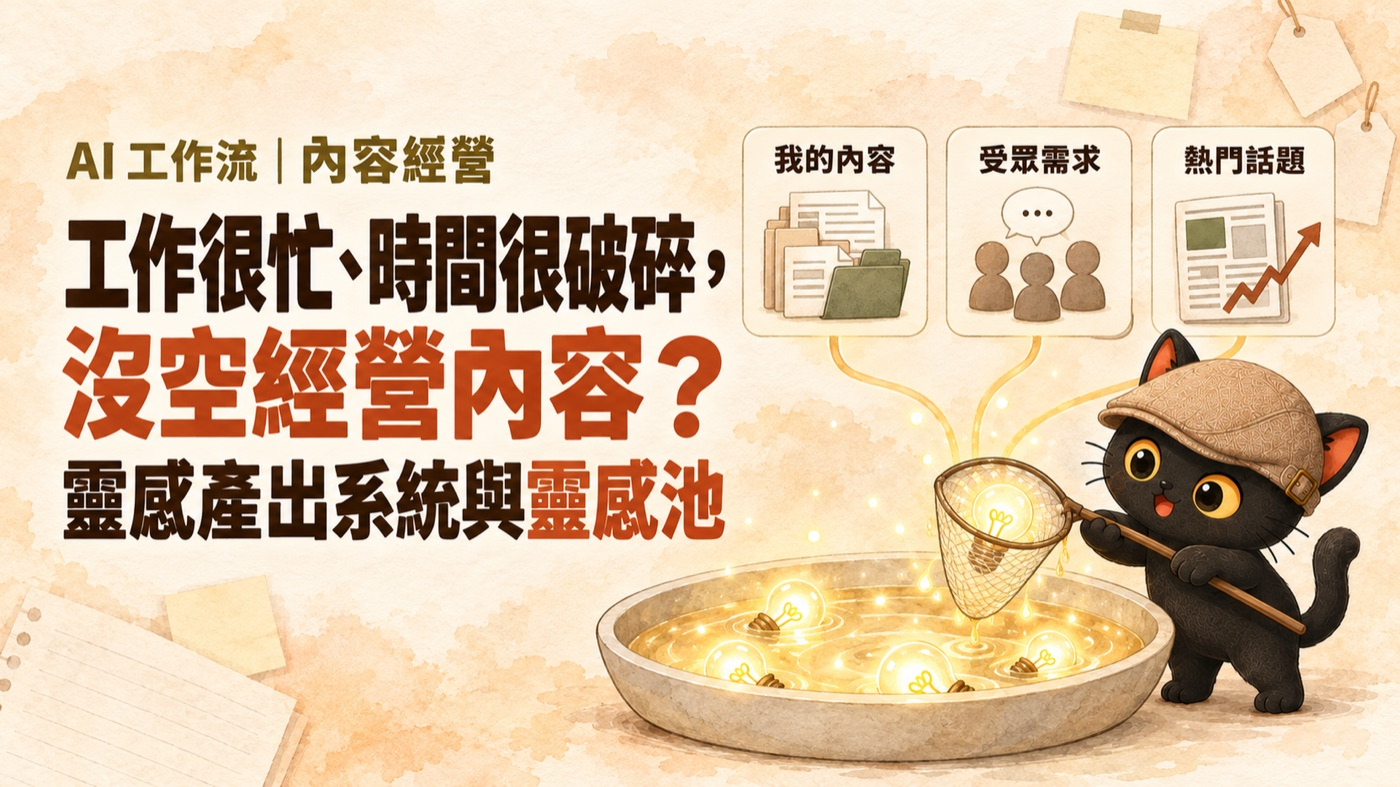
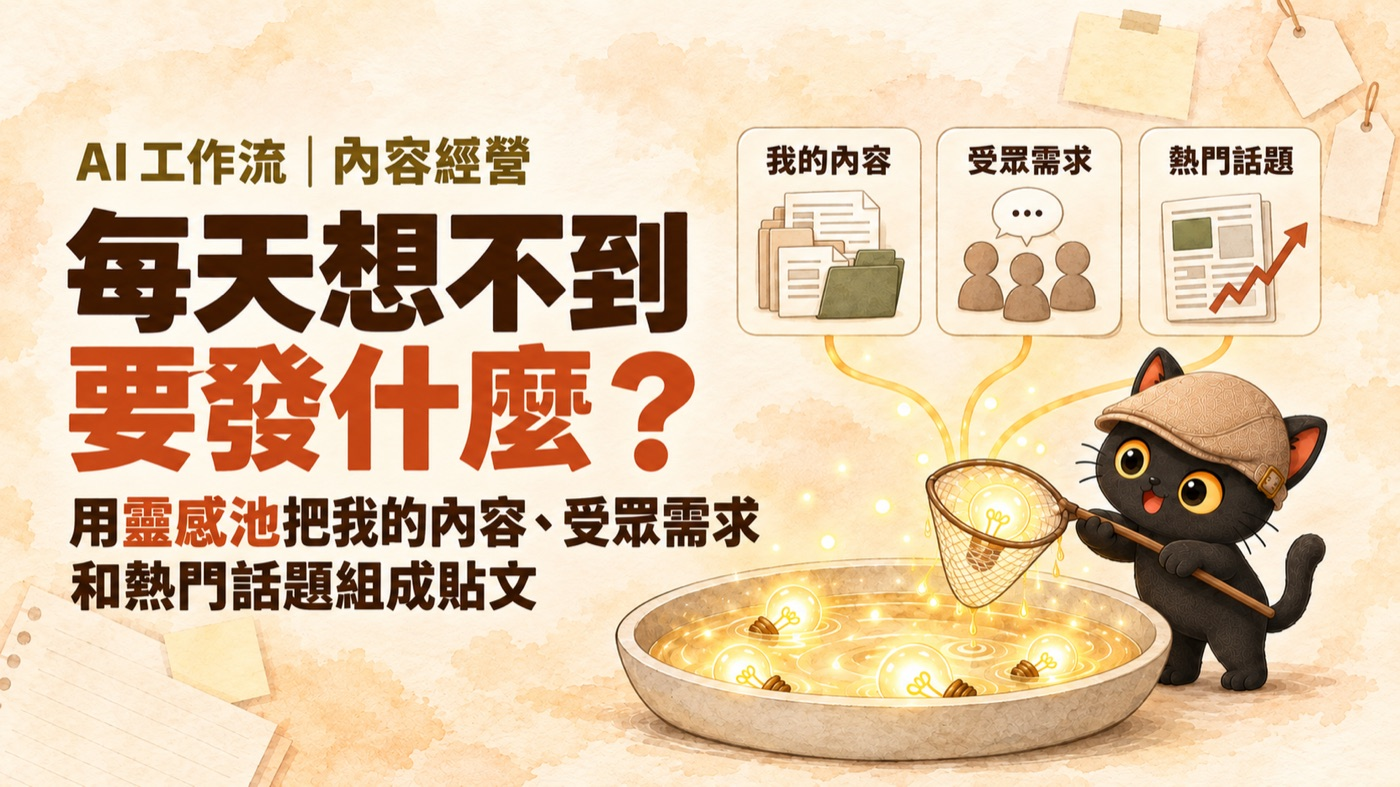
靈感池文章換新標題 B、封面第二版、長標題版面
- 主標改為「每天想不到要發什麼？｜用靈感池把我的內容、受眾需求和熱門話題組成貼文」（江江 10/24 選定，雙軌互審 Claude 案 B）
- 舊主標加進搜尋別名；article.json、llms.txt 同步
- 封面依新標題重生（v2），OG 重截；hero 文字與封面各 500px

diff --git a/articles/inspiration-production-system/index.html b/articles/inspiration-production-system/index.html
@@ -4,21 +4,21 @@
 <meta charset="utf-8">
 <meta name="viewport" content="width=device-width,initial-scale=1">
 <meta name="robots" content="index,follow">
-<title>工作很忙、時間很破碎，沒空經營內容？：靈感產出系統與靈感池</title>
+<title>每天想不到要發什麼？｜用靈感池把我的內容、受眾需求和熱門話題組成貼文</title>
 <meta name="description" content="靈感可以系統性產出。教你建立內容創作的靈感池：三個靈感來源（我過去累積的內容、受眾的需求、網路上的熱門話題）怎麼組合，加上標籤撈取系統，以及靈感池為什麼也是知識管理。江江教練整理兩場課的實作方法。">
 <link rel="canonical" href="https://jiangyude.com/articles/inspiration-production-system/">
 <meta property="og:type" content="article">
-<meta property="og:title" content="工作很忙、時間很破碎，沒空經營內容？：靈感產出系統與靈感池｜江江教練">
+<meta property="og:title" content="每天想不到要發什麼？｜用靈感池把我的內容、受眾需求和熱門話題組成貼文｜江江教練">
 <meta property="og:image" content="https://jiangyude.com/images/og/inspiration-production-system.jpg">
 <meta property="og:description" content="靈感可以系統性產出。三個靈感來源加上標籤撈取系統，讓有個人特色的發文變成一套會自己運轉的系統。">
 <meta property="og:url" content="https://jiangyude.com/articles/inspiration-production-system/">
 <meta property="og:locale" content="zh_TW">
 <meta property="og:site_name" content="江江教練 · AI 知識管理">
 <meta name="twitter:card" content="summary_large_image">
-<meta name="twitter:title" content="工作很忙、時間很破碎，沒空經營內容？：靈感產出系統與靈感池｜江江教練">
+<meta name="twitter:title" content="每天想不到要發什麼？｜用靈感池把我的內容、受眾需求和熱門話題組成貼文｜江江教練">
 <meta name="twitter:image" content="https://jiangyude.com/images/og/inspiration-production-system.jpg">
 <meta name="twitter:description" content="靈感可以系統性產出。三個靈感來源加上標籤撈取系統，讓有個人特色的發文變成一套會自己運轉的系統。">
-<script type="application/ld+json">{"@context":"https://schema.org","@type":"Article","headline":"工作很忙、時間很破碎，沒空經營內容？：靈感產出系統與靈感池","description":"靈感可以系統性產出。三個靈感來源加上標籤撈取系統，讓有個人特色的發文變成一套會自己運轉的系統。","author":{"@type":"Person","name":"江昱德","alternateName":"江江教練","jobTitle":"隱性知識提煉師、AI 應用規劃師"},"isPartOf":{"@type":"WebSite","name":"江江教練 · AI 知識管理","url":"https://jiangyude.com/"},"inLanguage":"zh-Hant","url":"https://jiangyude.com/articles/inspiration-production-system/","datePublished":"2026-07-13","dateModified":"2026-10-23","image":"https://jiangyude.com/images/og/inspiration-production-system.jpg"}</script>
+<script type="application/ld+json">{"@context":"https://schema.org","@type":"Article","headline":"每天想不到要發什麼？｜用靈感池把我的內容、受眾需求和熱門話題組成貼文","description":"靈感可以系統性產出。三個靈感來源加上標籤撈取系統，讓有個人特色的發文變成一套會自己運轉的系統。","author":{"@type":"Person","name":"江昱德","alternateName":"江江教練","jobTitle":"隱性知識提煉師、AI 應用規劃師"},"isPartOf":{"@type":"WebSite","name":"江江教練 · AI 知識管理","url":"https://jiangyude.com/"},"inLanguage":"zh-Hant","url":"https://jiangyude.com/articles/inspiration-production-system/","datePublished":"2026-07-13","dateModified":"2026-10-24","image":"https://jiangyude.com/images/og/inspiration-production-system.jpg"}</script>
 <link rel="preconnect" href="https://fonts.googleapis.com">
 <link rel="preconnect" href="https://fonts.gstatic.com" crossorigin>
 <link rel="stylesheet" href="https://fonts.googleapis.com/css2?family=Cormorant+Garamond:ital,wght@0,400;0,500;0,600;1,400;1,500&family=Caveat:wght@400;500;600;700&family=Noto+Sans+TC:wght@400;500;700&family=JetBrains+Mono:wght@400;500&display=swap">
@@ -125,6 +125,12 @@ body.spotlight::after{content:'';position:fixed;inset:0;background:radial-gradie
 .readmore ul{margin:0;padding-left:1.25em}
 .readmore a{color:var(--blue);font-weight:700;text-decoration:none}
 .readmore a:hover{text-decoration:underline}
+.hero{gap:44px!important}
+.hero>div{width:500px!important}
+.hero-figure{width:500px!important}
+.hero h1{font-size:clamp(28px,2.8vw,40px)!important;line-height:1.2!important;margin:12px 0 16px!important}
+.hero p{font-size:clamp(17px,1.35vw,19px)!important}
+@media(max-width:1100px){.hero{flex-direction:column;align-items:flex-start;gap:28px!important}.hero>div{width:100%!important}.hero-figure{width:100%!important;max-width:560px}}
 </style>
 <!-- tracking:vercel-analytics -->
 <script defer src="/_vercel/insights/script.js"></script>
@@ -152,12 +158,12 @@ body.spotlight::after{content:'';position:fixed;inset:0;background:radial-gradie
   <div class="wc wc3"></div>
   <div>
     <div class="kicker">AI 工作流 / 內容經營</div>
-    <h1>工作很忙、時間很破碎，沒空經營內容？：靈感產出系統與靈感池</h1>
-    <p class="article-date" style="margin:0 0 18px;font-size:14px;line-height:1.6;color:#6a635a;">發佈 2026-07-13 ｜ 最後更新 2026-10-23</p>
+    <h1>每天想不到要發什麼？｜用靈感池把我的內容、受眾需求和熱門話題組成貼文</h1>
+    <p class="article-date" style="margin:0 0 18px;font-size:14px;line-height:1.6;color:#6a635a;">發佈 2026-07-13 ｜ 最後更新 2026-10-24</p>
     <p>靈感可以系統性產出，教你建立內容創作的靈感池。每天硬想「今天發什麼」想到累？把三個靈感來源累積起來、把標籤下對，有個人特色的穩定發文，可以變成一套會自己運轉的系統。</p>
   </div>
   <figure class="hero-figure">
-    <img src="../../images/articles/inspiration-production-system-cover-wide.jpg" alt="靈感產出系統與靈感池封面：我的內容、受眾需求、熱門話題三張卡各拉一條線匯進發光的池子，咪卡拿網子從池子裡撈起一顆燈泡" loading="lazy">
+    <img src="../../images/articles/inspiration-production-system-cover-wide.jpg" alt="每天想不到要發什麼？封面：我的內容、受眾需求、熱門話題三張卡各拉一條線匯進發光的靈感池，咪卡拿網子從池子裡撈起一顆燈泡" loading="lazy">
     <figcaption>三個靈感來源匯流成一個靈感池</figcaption>
   </figure>
 </section>

diff --git a/search-aliases.js b/search-aliases.js
@@ -140,7 +140,7 @@ window.SEARCH_ALIASES = {
   "dual-track-planning-loop": ["企劃被模擬評審打分","雙軌互審","AI寫自己審看不到盲點","政府補助提案案例","兩個AI互相挑錯","對家終審決策點","被自己想法錨定看不到盲點","頂規模型很貴，怎麼把複雜的交給它、其他交給便宜的？","我讓兩個模型互相討論，結果它們沒完沒了地聊下去。","企劃被模擬評審打2分","自審失明像校對自己的作文","雙軌互審loop","馬斯克視角納瓦爾視角顧問審企劃"],
   "dual-centaur-meeting": ["帶Agent開會", "人加AI對人加AI", "PAAP AAP AA", "複雜專案會議太長", "半人馬會議", "雙人馬會議", "半人馬", "半人馬模式", "人機協作下棋", "中間解Agent先過濾資料", "納瓦爾對談時間碼", "PAAP AAP AA三階段", "讓你的Agent跟我的Agent說", "開會兩三小時才對齊", "會議太長怎麼縮短", "可以帶 AI 一起開會嗎", "四方一起開會", "雙方各帶 AI 開會"],
   "laptop-desktop-webpage-sync-icloud-git": ["iCloud跟git衝突","多台電腦做網頁","程式碼放哪裡","換筆電找不到檔案","同步搬家","桌機筆電找不到專案","iCloud雙向猜拳","git中央對帳","門牌卡","地雷","後悔藥"],
-  "inspiration-production-system": ["每天硬想發什麼","靈感池","選題卡住","舊素材找不到","熱門話題選題","沒靈感發文","我工作很忙、時間很破碎，根本沒空經營內容。","不知道發什麼","發文主題想到累","三個靈感來源","靈感池知識管理"],
+  "inspiration-production-system": ["每天硬想發什麼","靈感池","選題卡住","舊素材找不到","熱門話題選題","沒靈感發文","我工作很忙、時間很破碎，根本沒空經營內容。","不知道發什麼","發文主題想到累","三個靈感來源","靈感池知識管理","工作很忙、時間很破碎，沒空經營內容","每天想不到要發什麼"],
   "post-class-organizing-loop": ["上完課素材散掉","逐字稿三天後就散了","課後六步輸送帶","教學手冊產出","課後整理Loop","兩層審核確保AI整理能用","簡報還是課前骨架版","六步輸送帶","往臉上貼金","一份材料多個出口"],
   "ai-handoff-instructions": ["換模型交接","交代太多AI做不完","供應商模式交接","交接單模板","換人續跑","交接指令怎麼寫","如果哪天換了另一家 AI，我的技能包要怎麼搬？","便宜的手","交接單越薄越準"],
   "manage-ai-with-management-knowledge": ["豐田TPS用在AI","不懂技術怎麼推AI","管理經驗翻譯成AI規則","自働化停線比喻","覺得要從零學新技術","標準化自働化持續改善","翻成AI流程檢查表","安燈拉繩","標準作業書","自働化異常停線"],
